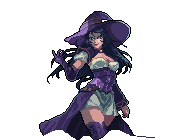
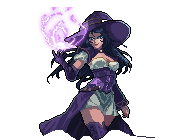
rework poweroverwhelming

Changed region(s): [[0.2299, 0.0286, 0.5172, 0.4]]

diff --git a/packages/engine/src/card/sets/core/arcane/spells/power-overwhelming.ts b/packages/engine/src/card/sets/core/arcane/spells/power-overwhelming.ts
@@ -8,8 +8,14 @@ import {
   RARITIES,
   FACTIONS
 } from '../../../../card.enums';
-import { SimpleAttackBuffModifier } from '../../../../../modifier/modifiers/simple-attack-buff.modifier';
+import { Modifier, MODIFIER_EVENTS } from '../../../../../modifier/modifier.entity';
+import { EmpowerModifier } from '../../../../../modifier/modifiers/empower.modifier';
+import { UnpreventableDamage } from '../../../../../utils/damage';
+import { TURN_EVENTS } from '../../../../../game/game.enums';
 import { UntilEndOfTurnModifierMixin } from '../../../../../modifier/mixins/until-end-of-turn.mixin';
+import { GameEventModifierMixin } from '../../../../../modifier/mixins/game-event.mixin';
+import { GAME_EVENTS } from '../../../../../game/game.events';
+import { HeroCard } from '../../../../entities/hero.entity';
 
 export const powerOverwhelming: SpellBlueprint = {
   id: 'power-overwhelming',
@@ -19,9 +25,7 @@ export const powerOverwhelming: SpellBlueprint = {
   setId: CARD_SETS.CORE,
   deckSource: CARD_DECK_SOURCES.DESTINY_DECK,
   name: 'Power Overwhelming',
-  description: dedent`
-  Your hero gains Atk equals to the amount of Arcane spells in your Banish pile until the end of the turn.
-  `,
+  description: dedent`This turn, when your hero becomes @Empowered@, it gains one more @Empower@ stack and takes 2 @True Damage@.`,
   faction: FACTIONS.ARCANE,
   rarity: RARITIES.EPIC,
   tags: [],
@@ -44,7 +48,7 @@ export const powerOverwhelming: SpellBlueprint = {
       tint: FACTIONS.ARCANE.defaultCardTint
     }
   },
-  destinyCost: 2,
+  destinyCost: 1,
   speed: CARD_SPEED.FAST,
   abilities: [],
   canPlay: () => true,
@@ -52,11 +56,21 @@ export const powerOverwhelming: SpellBlueprint = {
   async onInit() {},
   async onPlay(game, card) {
     await card.player.hero.modifiers.add(
-      new SimpleAttackBuffModifier('power-overwhelming-attack-buff', game, card, {
-        amount: Array.from(card.player.cardManager.banishPile).filter(
-          c => c.kind === CARD_KINDS.SPELL && c.faction === FACTIONS.ARCANE
-        ).length,
-        mixins: [new UntilEndOfTurnModifierMixin(game)]
+      new Modifier<HeroCard>('power-overwhelming', game, card, {
+        mixins: [
+          new UntilEndOfTurnModifierMixin(game),
+          new GameEventModifierMixin(game, {
+            eventName: GAME_EVENTS.MODIFIER_AFTER_APPLIED,
+            async handler(event) {
+              if (!(event.data instanceof EmpowerModifier)) return;
+              if (!event.data.target.equals(card.player.hero)) return;
+
+              event.data.addStacks(1);
+
+              await card.player.hero.takeDamage(card, new UnpreventableDamage(2));
+            }
+          })
+        ]
       })
     );
   }

diff --git a/packages/engine/src/card/sets/core/order/heroes/harold-lv2.ts b/packages/engine/src/card/sets/core/order/heroes/harold-lv2.ts
@@ -60,7 +60,7 @@ export const haroldLv2: HeroBlueprint = {
     {
       id: 'harold-vowed-crusader-ability-1',
       description:
-        'Grant a minion @Honor@ "@On Death@: Wake up your hero and give it +1 Atk" until the end of the turn.',
+        'Grant a minion with @Honor@ "@On Death@: Wake up your hero and give it +1 Atk" until the end of the turn.',
       label: 'Grant Honor',
       canUse: singleMinionTargetRules.canPlay,
       getPreResponseTargets(game, card) {
@@ -72,7 +72,7 @@ export const haroldLv2: HeroBlueprint = {
       },
       manaCost: 1,
       shouldExhaust: true,
-      speed: CARD_SPEED.FAST,
+      speed: CARD_SPEED.BURST,
       isHiddenOnCard: false,
       async onResolve(game, card, targets) {
         for (const target of targets) {

diff --git a/docs/CORE_SET.md b/docs/CORE_SET.md
@@ -238,9 +238,9 @@ Foresight.
 
 [x] Power Overwhelming
 
-Spell | Arcane | ((2)) | fast
+Spell | Arcane | ((1)) | fast
 
-Your hero gains Atk equals to the amount of Arcane spells in your Banish pile.
+This turn, when your hero becomes @Empowered@, it gains one more @Empower@ stack and takes 2 @True Damage@.
 
 ---
 
